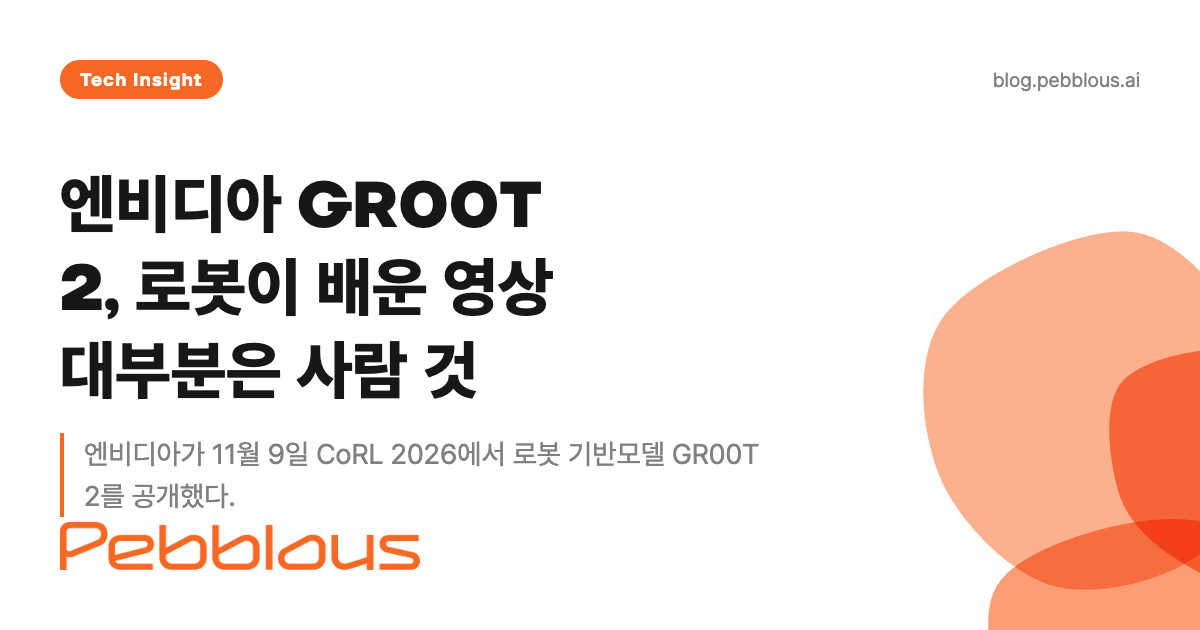
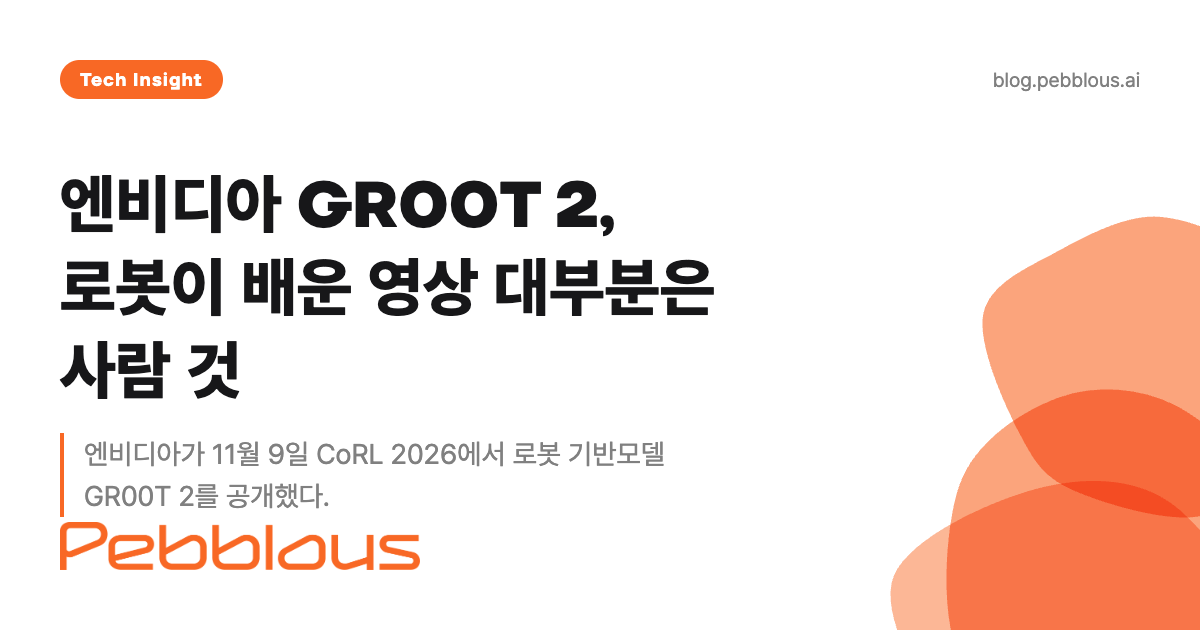
fix: GR00T 2 리포트 OG 이미지 줄바꿈 수정
제목과 국문 부제에서 "GR00T"와 "2"가 다른 줄로 갈리던 것을 한 줄로 묶었다.

diff --git a/blog/nvidia-groot-2-human-video-data-provenance/ko/index.html b/blog/nvidia-groot-2-human-video-data-provenance/ko/index.html
@@ -17,6 +17,7 @@
     <!-- 핵심 검색어 -->
     <meta name="pb-search-keyword" content="GR00T 2">
     <meta name="pb-search-keyword-forms" content="GR00T 2|그루트 2">
+    <meta name="og-image-title" content="엔비디아 GR00T 2,&#10;로봇이 배운 영상 대부분은 사람 것">
 
     <link rel="canonical" href="https://blog.pebblous.ai/blog/nvidia-groot-2-human-video-data-provenance/ko/">
     <link rel="alternate" hreflang="ko" href="https://blog.pebblous.ai/blog/nvidia-groot-2-human-video-data-provenance/ko/">

diff --git a/blog/nvidia-groot-2-human-video-data-provenance/en/index.html b/blog/nvidia-groot-2-human-video-data-provenance/en/index.html
@@ -17,6 +17,7 @@
     <!-- Main search keyword -->
     <meta name="pb-search-keyword" content="GR00T 2">
     <meta name="pb-search-keyword-forms" content="GR00T 2|GR00T2|NVIDIA GR00T 2">
+    <meta name="og-image-title" content="Whose Video Is&#10;NVIDIA's GR00T 2&#10;Learning From?">
 
     <link rel="canonical" href="https://blog.pebblous.ai/blog/nvidia-groot-2-human-video-data-provenance/en/">
     <link rel="alternate" hreflang="ko" href="https://blog.pebblous.ai/blog/nvidia-groot-2-human-video-data-provenance/ko/">
